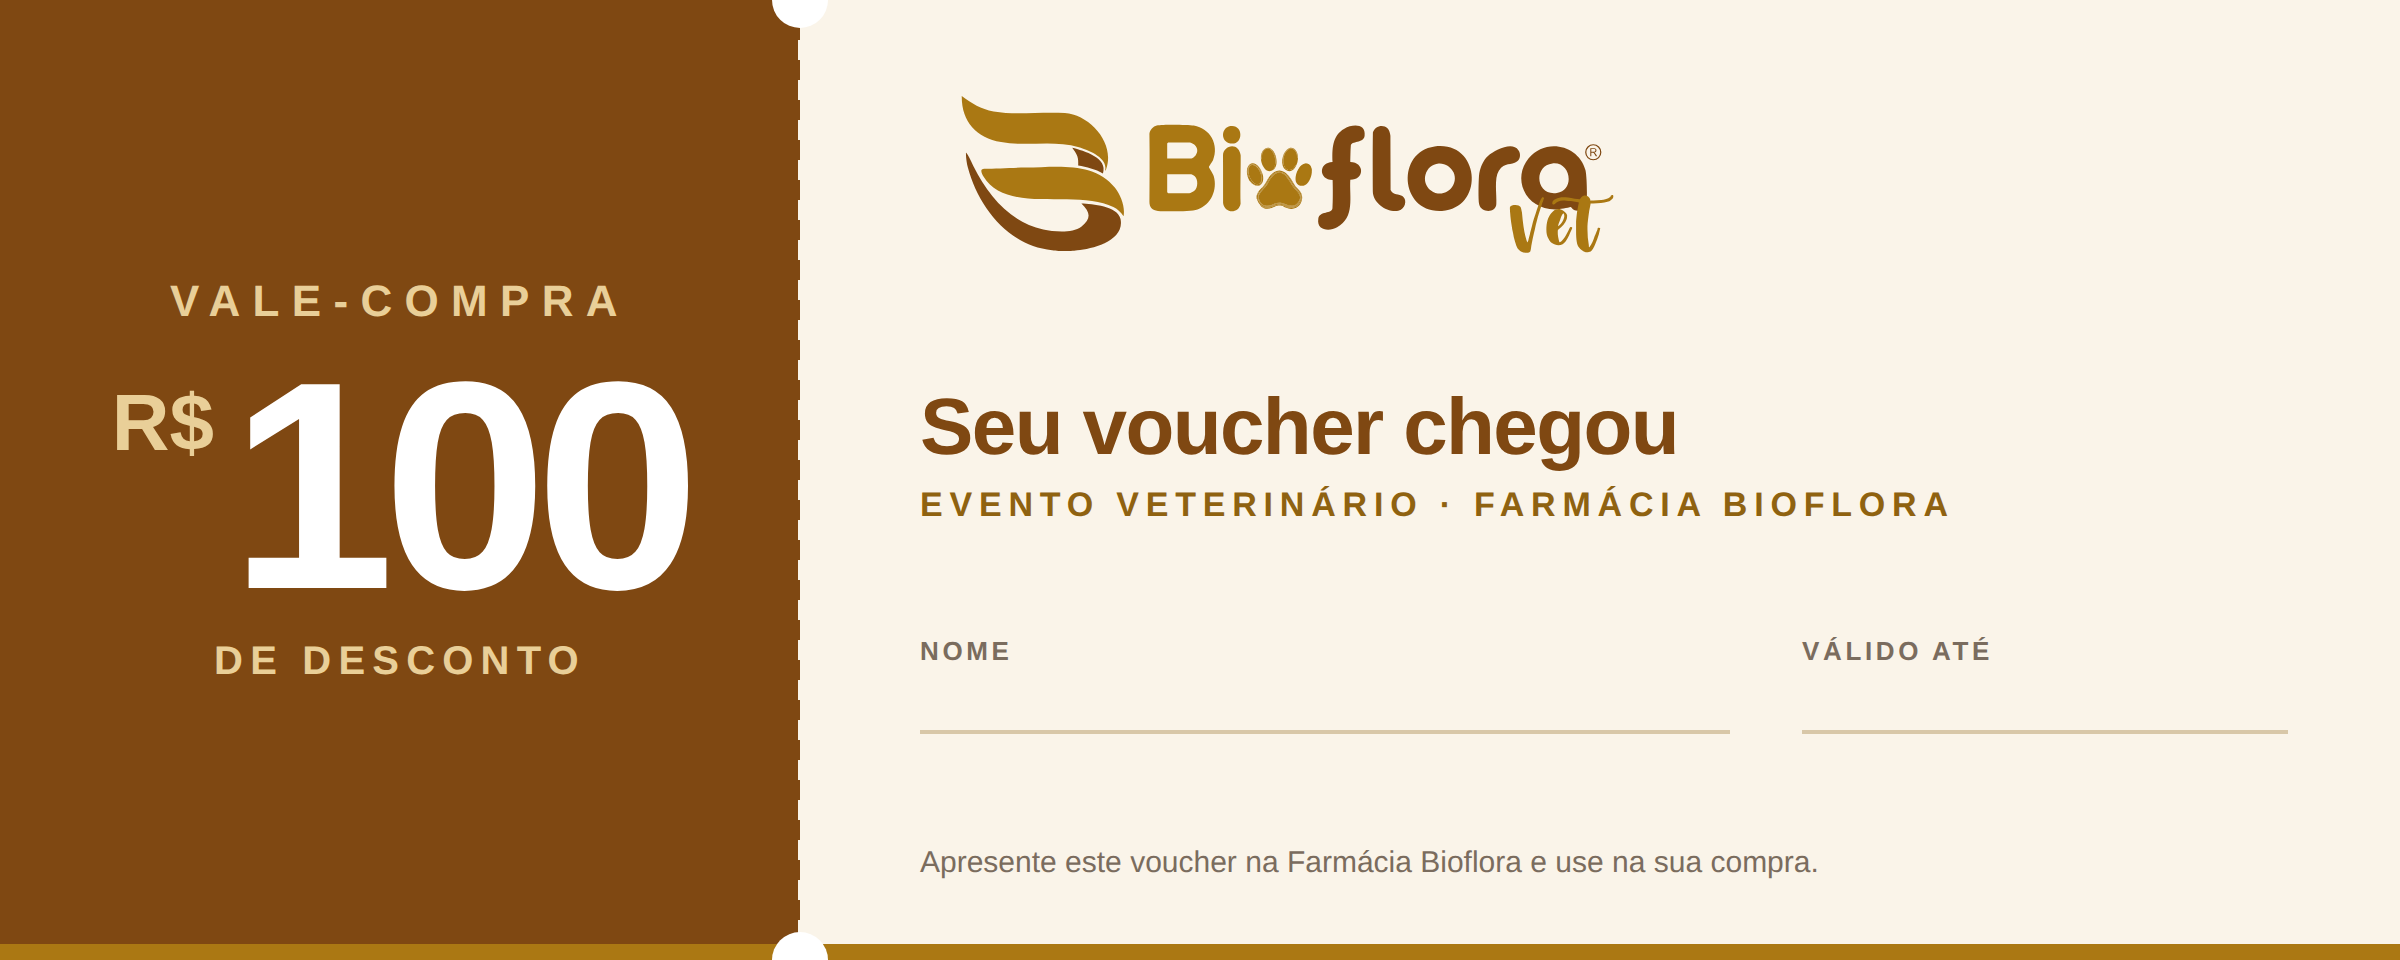
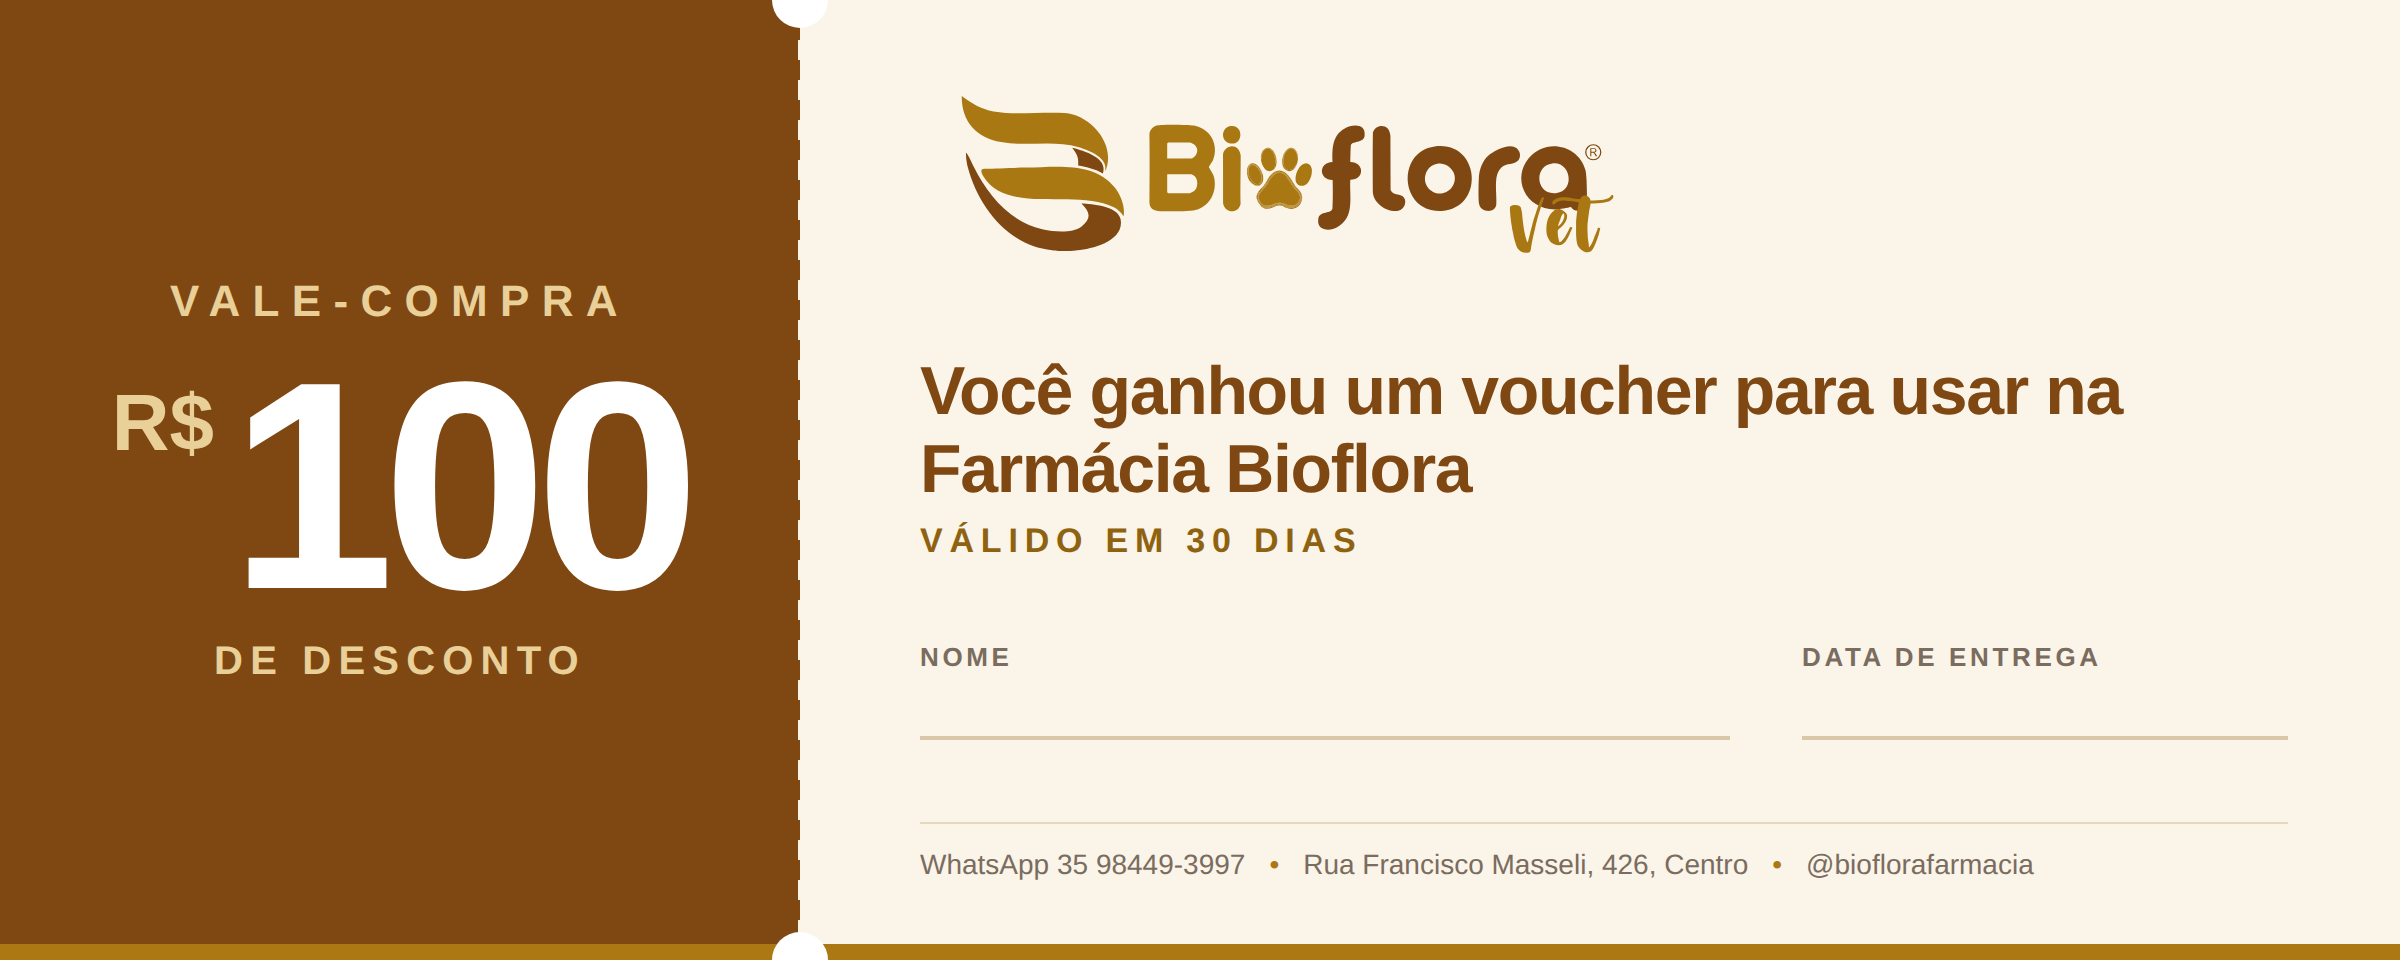
Vouchers R$ 100, 70 e 50: novo texto, validade de 30 dias e contatos da farmácia
Claude-Session: https://claude.ai/code/session_01LtTFkvNq9emYcV1PmXW6V5

diff --git a/vouchers/voucher.html b/vouchers/voucher.html
@@ -16,24 +16,24 @@ body{margin:0;background:#fff}
 .corte.a{top:-14px}.corte.b{bottom:-14px}
 .corpo{flex:1;padding:44px 56px 40px 60px;display:flex;flex-direction:column;justify-content:space-between}
 .corpo img{height:92px;width:auto;align-self:flex-start}
-.titulo{font:700 40px 'Space Grotesk',sans-serif;letter-spacing:-.02em;color:var(--marrom);margin:0}
+.titulo{font:700 34px/1.15 'Space Grotesk',sans-serif;letter-spacing:-.02em;color:var(--marrom);margin:0;max-width:640px}
 .evento{font:600 17px 'Maven Pro',sans-serif;letter-spacing:.2em;text-transform:uppercase;color:var(--ouro-esc);margin-top:6px}
 .campos{display:flex;gap:36px}
 .campo{flex:1}
 .campo .l{font:600 13px 'Maven Pro',sans-serif;letter-spacing:.14em;text-transform:uppercase;color:var(--gray)}
 .campo .linha{border-bottom:2px solid #D8C7A8;height:34px}
-.rodape{font:500 15px 'Maven Pro',sans-serif;color:var(--gray)}
+.rodape{font:500 14px 'Maven Pro',sans-serif;color:var(--gray);display:flex;gap:12px;flex-wrap:wrap;border-top:1px solid #E5D8BF;padding-top:12px}.rodape i{font-style:normal;color:var(--ouro)}
 .faixa{position:absolute;left:0;right:0;bottom:0;height:8px;background:var(--ouro)}
 </style></head>
 <body>
 <div class="voucher" id="v">
-  <div class="valor"><div class="pre">Vale-compra</div><div class="num"><small>R$</small><span id="valor">150</span></div><div class="off">de desconto</div></div>
+  <div class="valor"><div class="pre">Vale-compra</div><div class="num"><small>R$</small><span id="valor">100</span></div><div class="off">de desconto</div></div>
   <div class="corte a"></div><div class="corte b"></div>
   <div class="corpo">
     <img src="../logo-bioflora-vet.svg" alt="Bioflora Vet">
-    <div><h1 class="titulo">Seu voucher chegou</h1><div class="evento">Evento Veterinário · Farmácia Bioflora</div></div>
-    <div class="campos"><div class="campo"><div class="l">Nome</div><div class="linha"></div></div><div class="campo" style="flex:.6"><div class="l">Válido até</div><div class="linha"></div></div></div>
-    <div class="rodape">Apresente este voucher na Farmácia Bioflora e use na sua compra.</div>
+    <div><h1 class="titulo">Você ganhou um voucher para usar na Farmácia Bioflora</h1><div class="evento">Válido em 30 dias</div></div>
+    <div class="campos"><div class="campo"><div class="l">Nome</div><div class="linha"></div></div><div class="campo" style="flex:.6"><div class="l">Data de entrega</div><div class="linha"></div></div></div>
+    <div class="rodape"><span>WhatsApp 35 98449-3997</span><i>•</i><span>Rua Francisco Masseli, 426, Centro</span><i>•</i><span>@bioflorafarmacia</span></div>
   </div>
   <div class="faixa"></div>
 </div>
